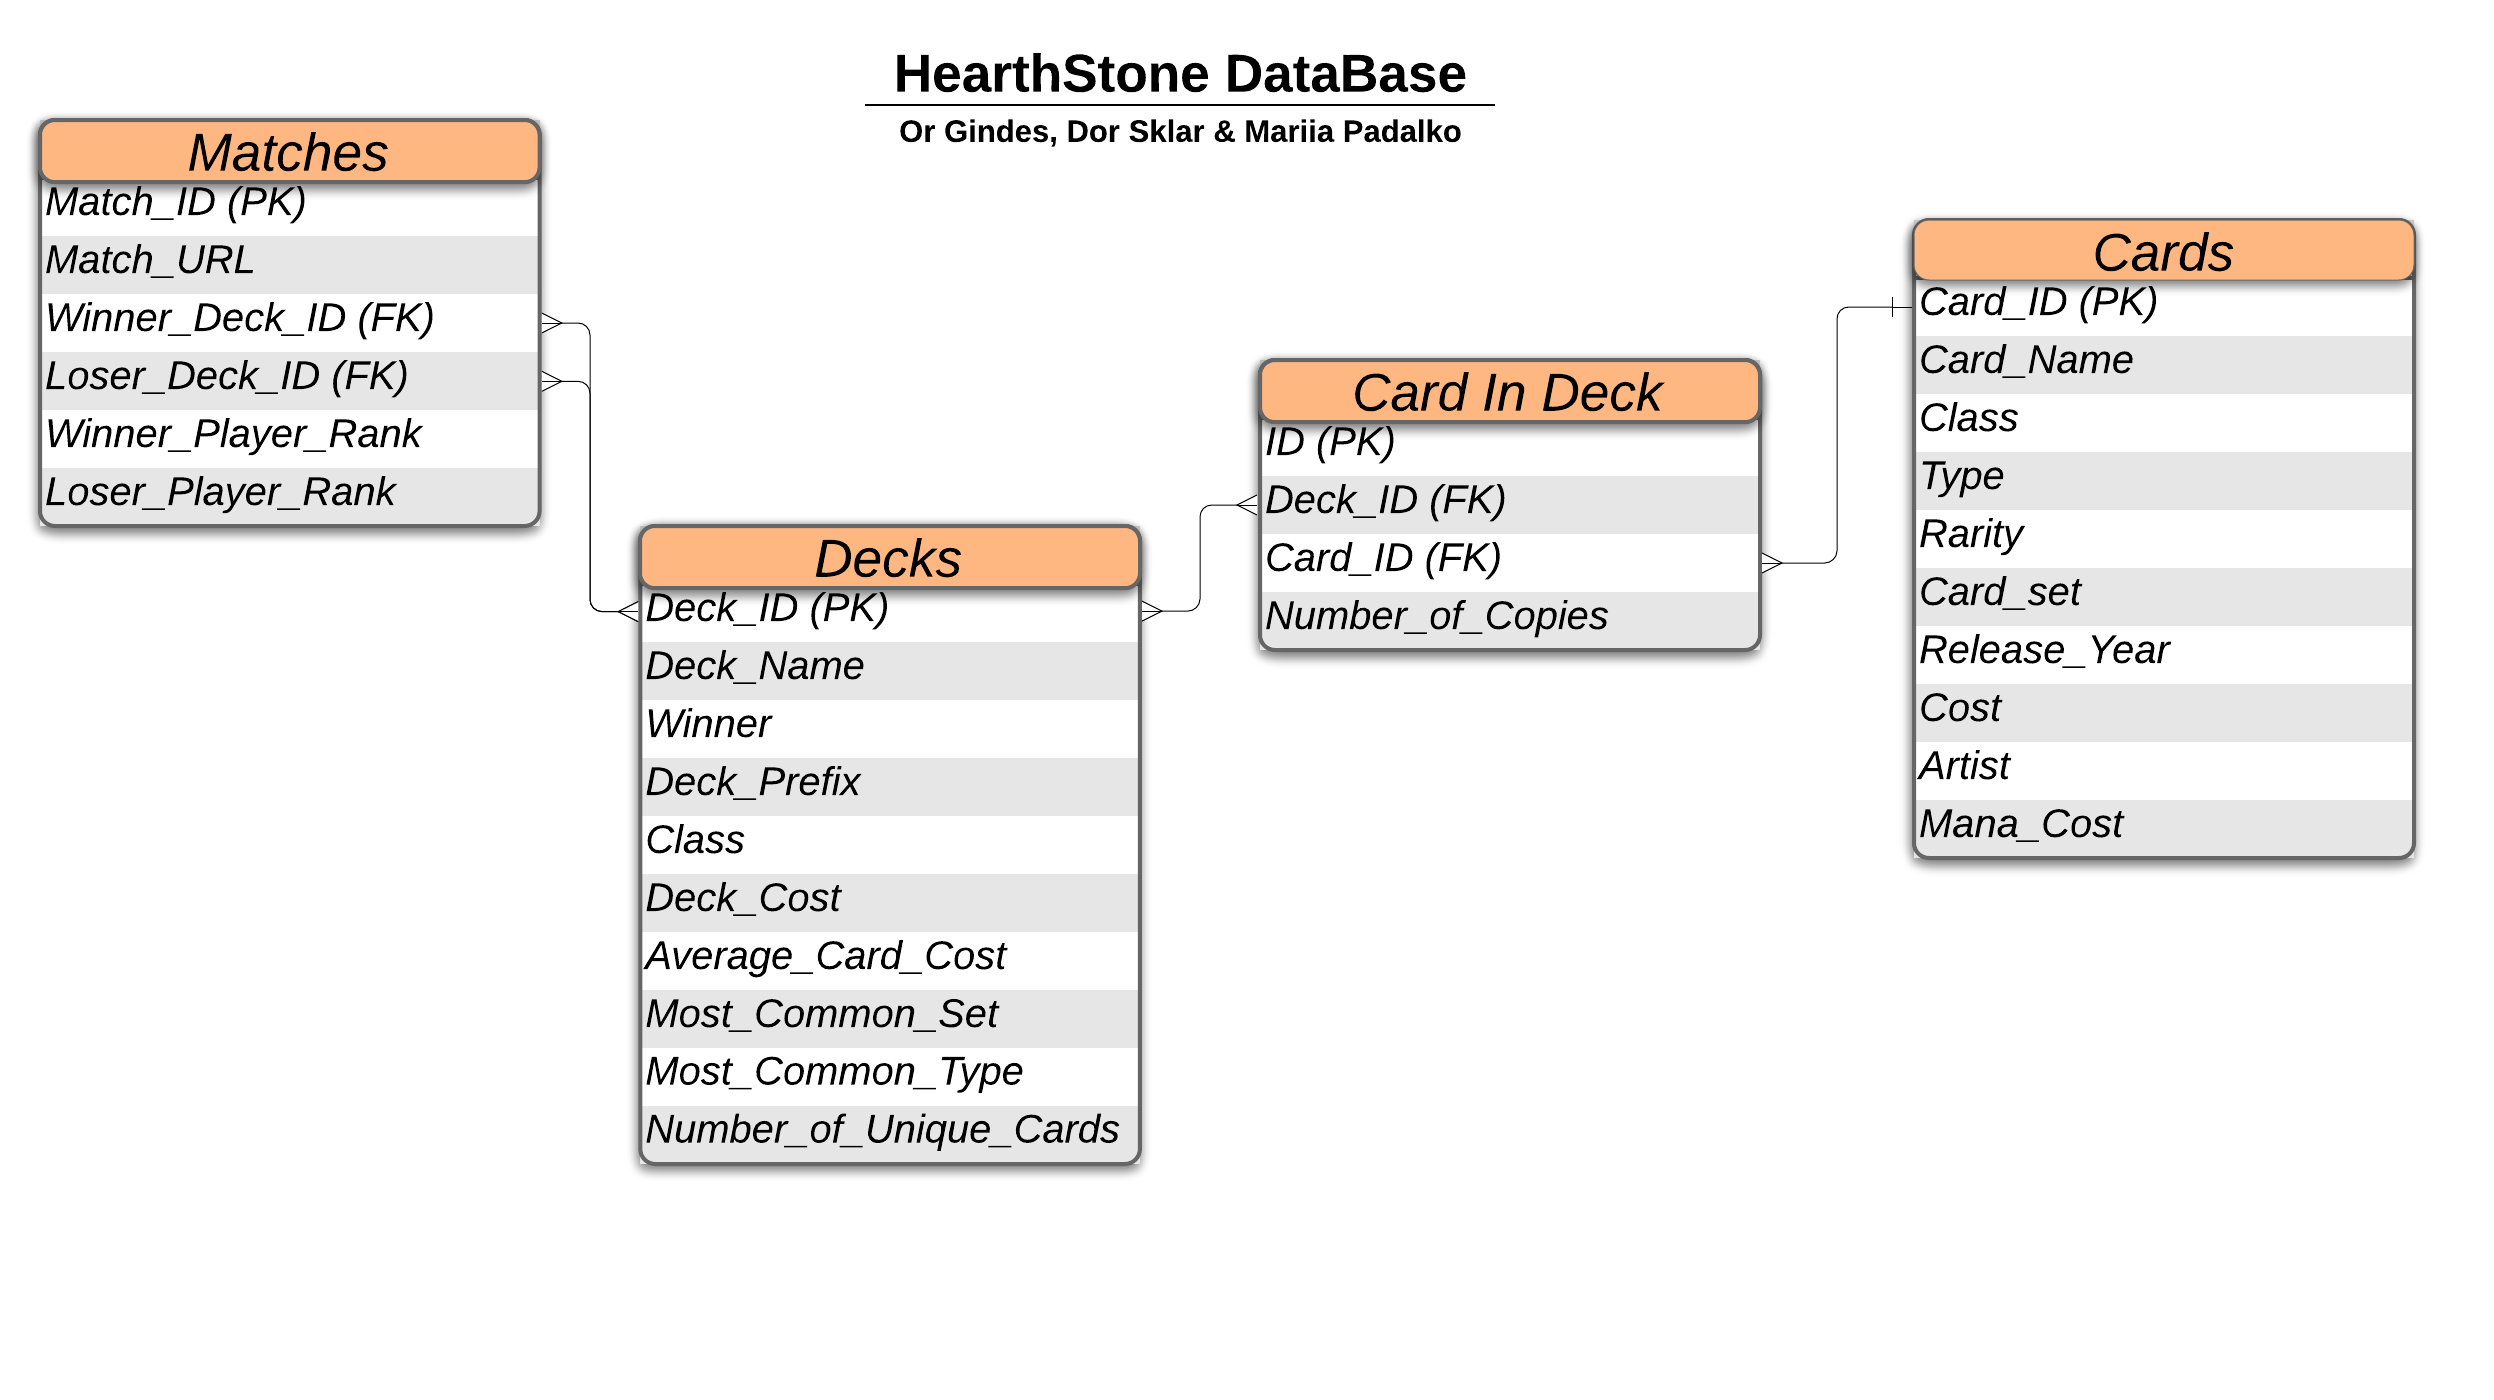
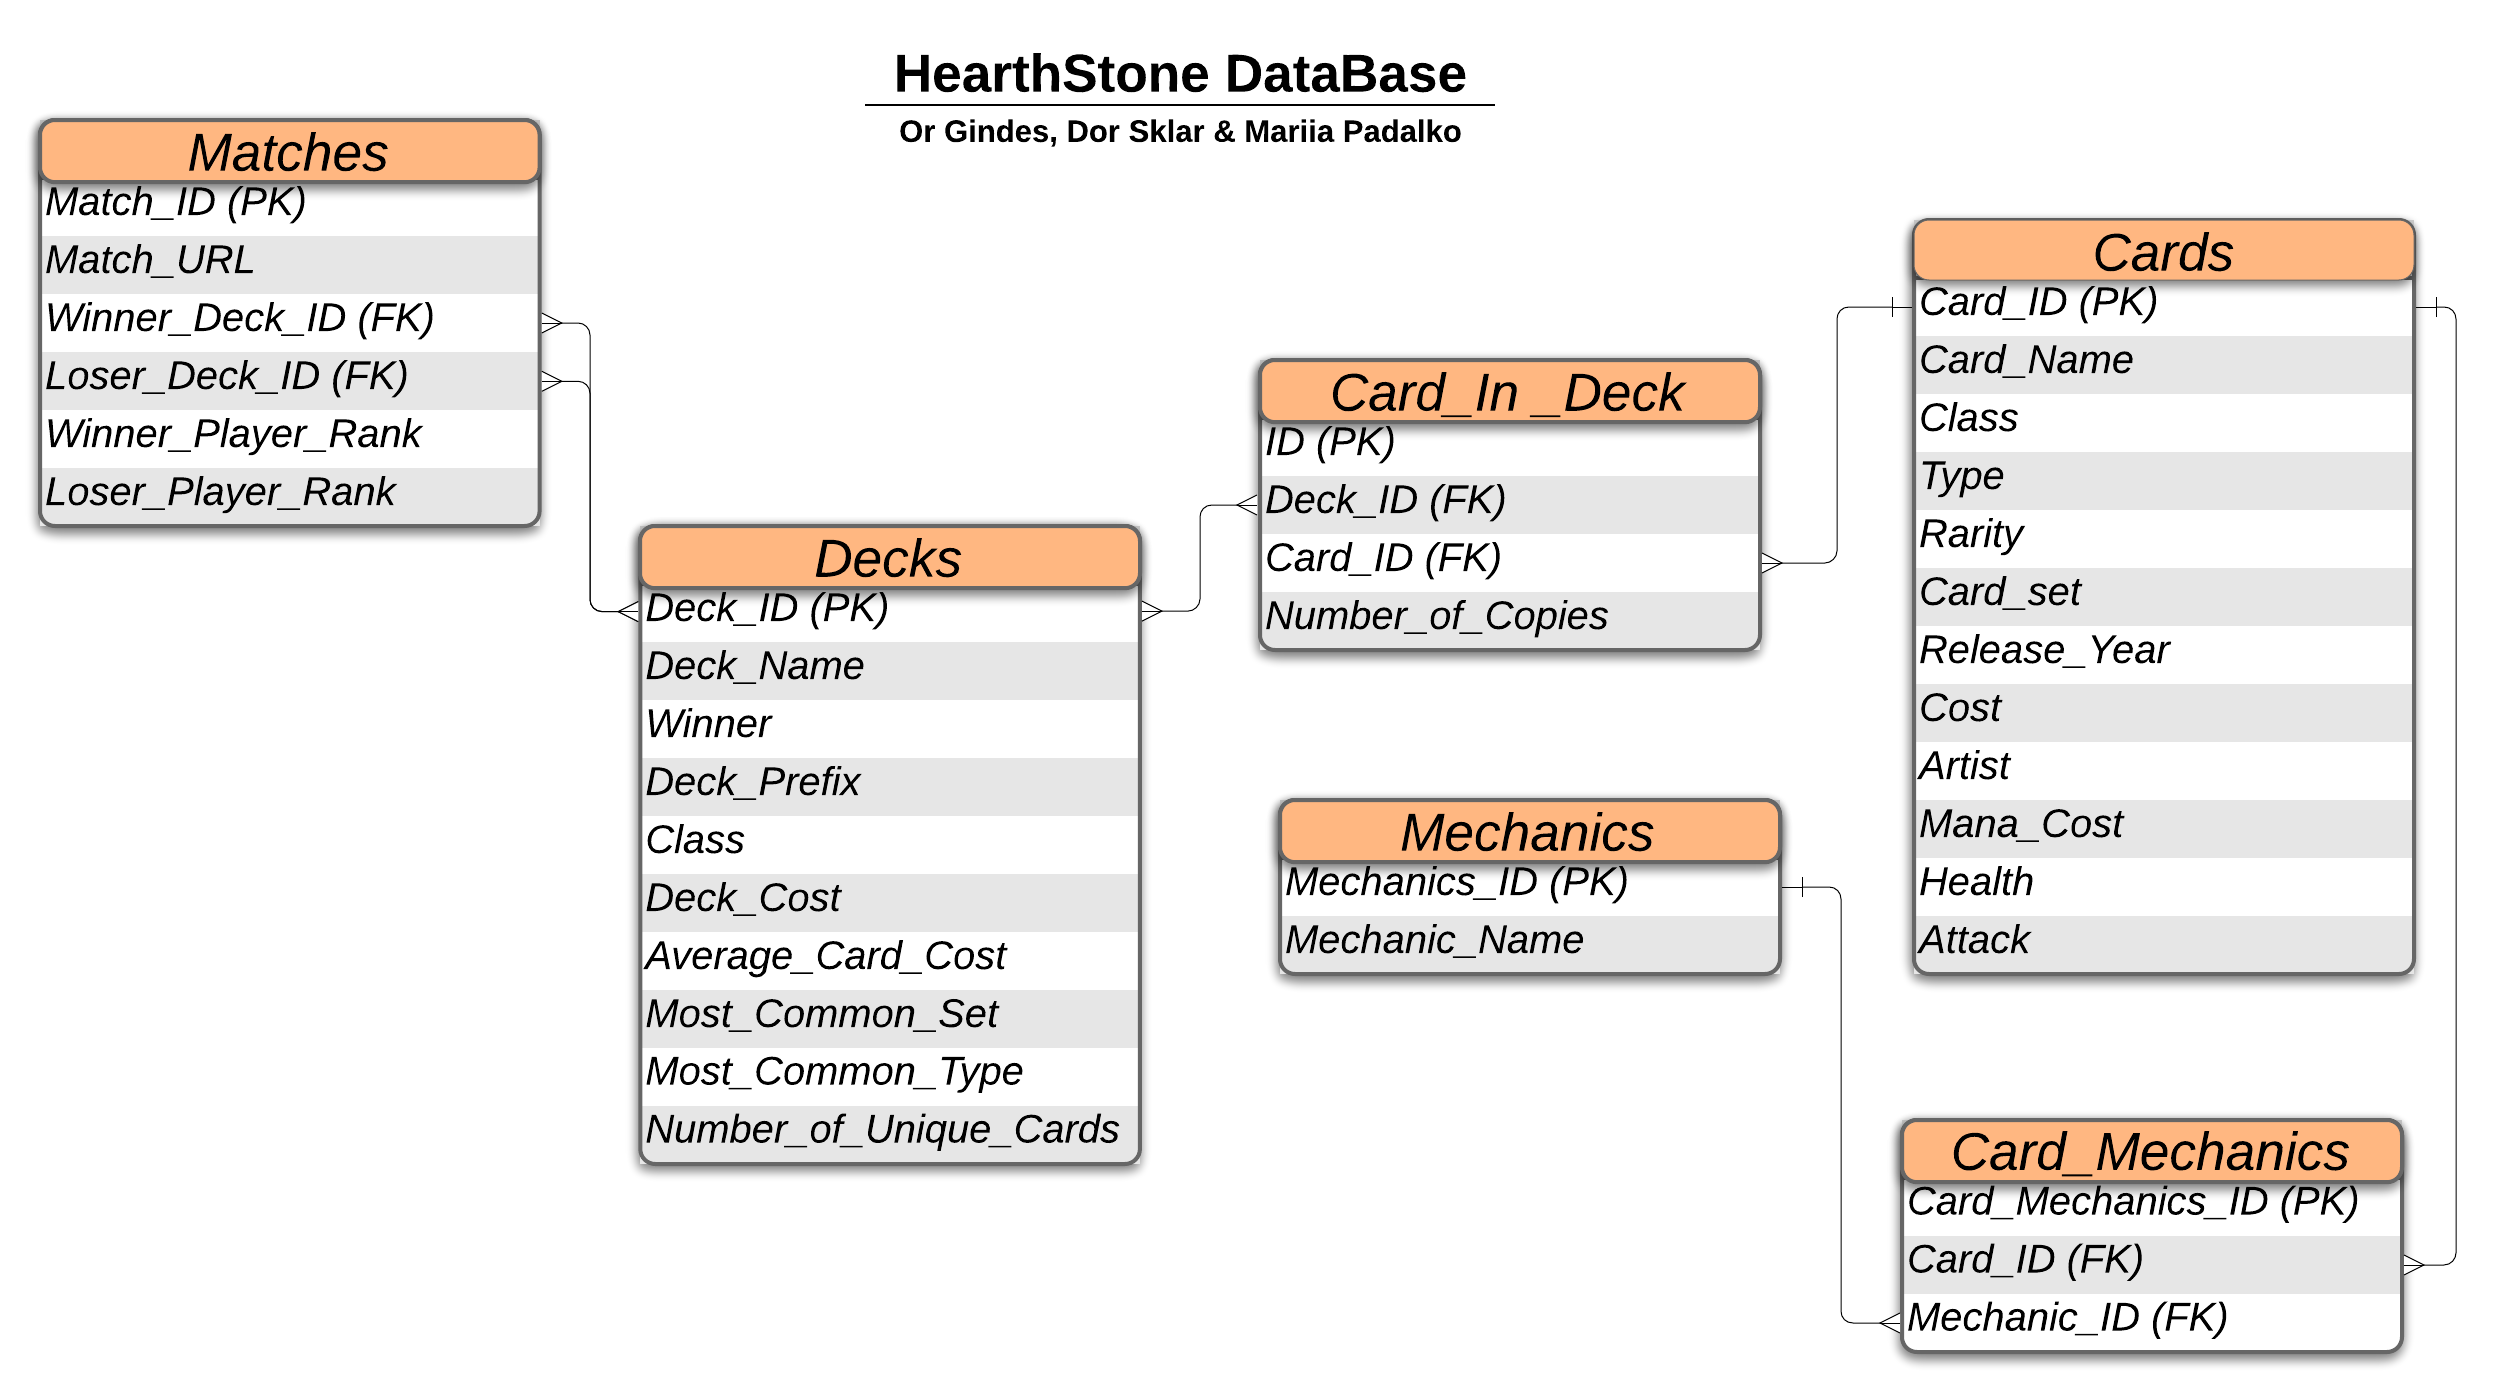
Updates: * ERD.png - updated to include new tables. * README.md - updated.

Changed region(s): [[0.494, 0.5529, 0.988, 0.7064], [0.741, 0.7986, 0.988, 0.9829], [0.5249, 0.2457, 0.6792, 0.3071]]

diff --git a/README.md b/README.md
@@ -13,6 +13,7 @@
 * Insights and conclusions
 * Additional Sources of information
 * Appendix
+    * Past updates
     * Current status
     * Technologies
     * Setting up your project folder and environment
@@ -59,20 +60,22 @@ and the data gathered is used to make business and balance decisions on a daily 
 
 ### Where do we go to then ?
 
-We used the website http://hsreplay.net, which records an average of 700,000 matches each day and serves as a
+1. We've used the website http://hsreplay.net, which records an average of 700,000 matches each day and serves as a
 private statistical monitor of the game and holds many kinds of data.
 We've built a web scraper which parses:
+
    1. The live game feed (updated about every second) to get the players' decks and match results.
    2. For each match extracted from the feed, parses the decks to get the card names that it consists of.
    3. For each card in the players' decks, extracts it's characteristics.
 
-* What does the web scraper do in one iteration ?
-    * reads from the live feed once. 
-    * extracts up to 11 matches. 
-    * extracts up to different 660 cards (!)
+    * What does the web scraper do in one iteration ?
+        * reads from the live feed once. 
+        * extracts up to 11 matches. 
+        * extracts up to different 660 cards (!)
     
-    
-All of this scraped data will be used for...
+2. We've used Rapidapi's API to extract additional information about the cards not provided by http://hsreplay.net.
+
+All of this collected data will be used for...
 
 ### Database creation
 
@@ -92,7 +95,7 @@ Take note of the different tables and columns.
 * Inconsistencies in web-page structure in response to connection issues makes debugging difficult 
   (due to difficulties in recreating the bug) and necessitates flexible code
 * Constructing multiple connected functions in an efficient way (no code reuse for example in opening a driver).
-* Nature of the extracted data changes during the project (Ranks)
+* Nature and structure of the extracted data changes during the project (Ranks)
 
 ### Insights and conclusions 
 
@@ -110,6 +113,7 @@ speed and connection conditions (for example when extracting an element that tak
  
 * https://www.itc.tech/web-scraping-with-python-a-to-z/ 
 * https://mothergeo-py.readthedocs.io/en/latest/development/how-to/venv-win.html
+* https://rapidapi.com/omgvamp/api/hearthstone
 * https://selenium-python.readthedocs.io/
 * http://lucidchart.com 
 * Cohort staff and fellows 
@@ -117,9 +121,12 @@ speed and connection conditions (for example when extracting an element that tak
 
 ## Appendix
 
-### Current status
+### Past updates
 * Changing the scripts from using SQLite to MySQL - done. 
 * Getting the MySQL user access details - done.
+
+### Current status
+* Enriching the data using with an external resource - done.
 * Providing useful SQL commands in the appendix - in progress.
 
 ### Technologies 
@@ -161,12 +168,12 @@ deactivate
 ### User manual
 1. This project utilizes a CLI, allowing you to customize the program's behaviour:
     
-    1. <u>Program Behaviour arguments:</u>
+    1. Program Behaviour arguments:
         1. First argument is '-i' - type it if you want the web-scraper to run an infinite number of times.
         2. Second argument is '-n' - type it with a number attached (for example -n5) to run the web-scraper n times (5 in this case).
             * You can't use both the '-i' and '-n' arguments. 
         3. Third argument is '-q' - quiet mode - use it to suppress the opening of browser windows (Warning - makes the scraper slower).
-    2. <u>Database arguments:</u>
+    2. Database arguments:
         1. Fourth argument is '-l' - the hostname - default is set to 'localhost'.
         2. Fifth argument is '-p' - the password - default is set to 'root'.
         3. Sixth argument is '-d' - the database name - default is set to 'HS_Stats'.
